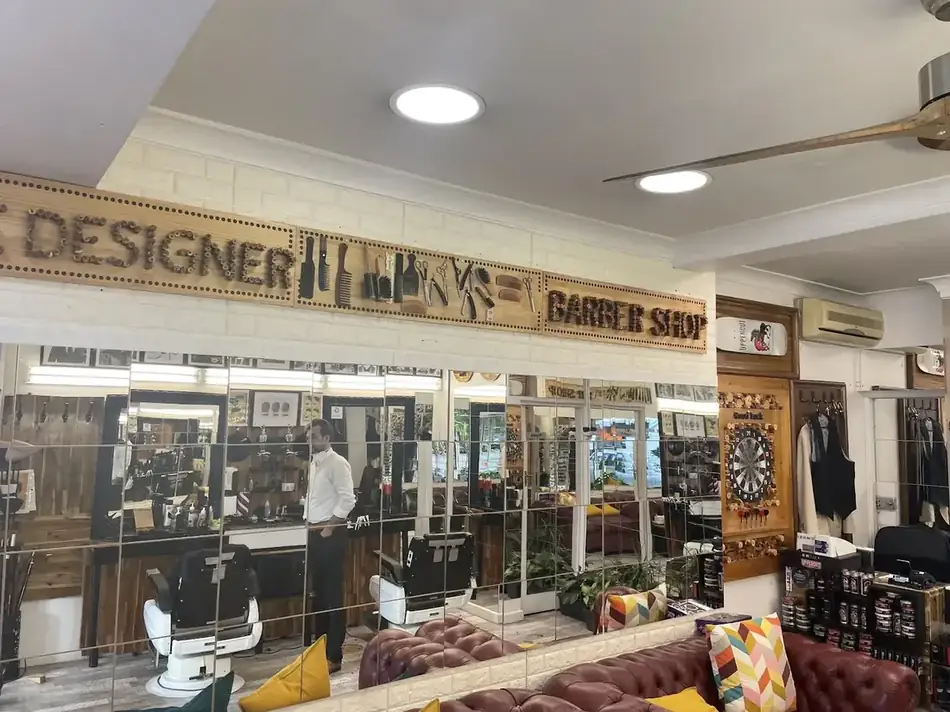
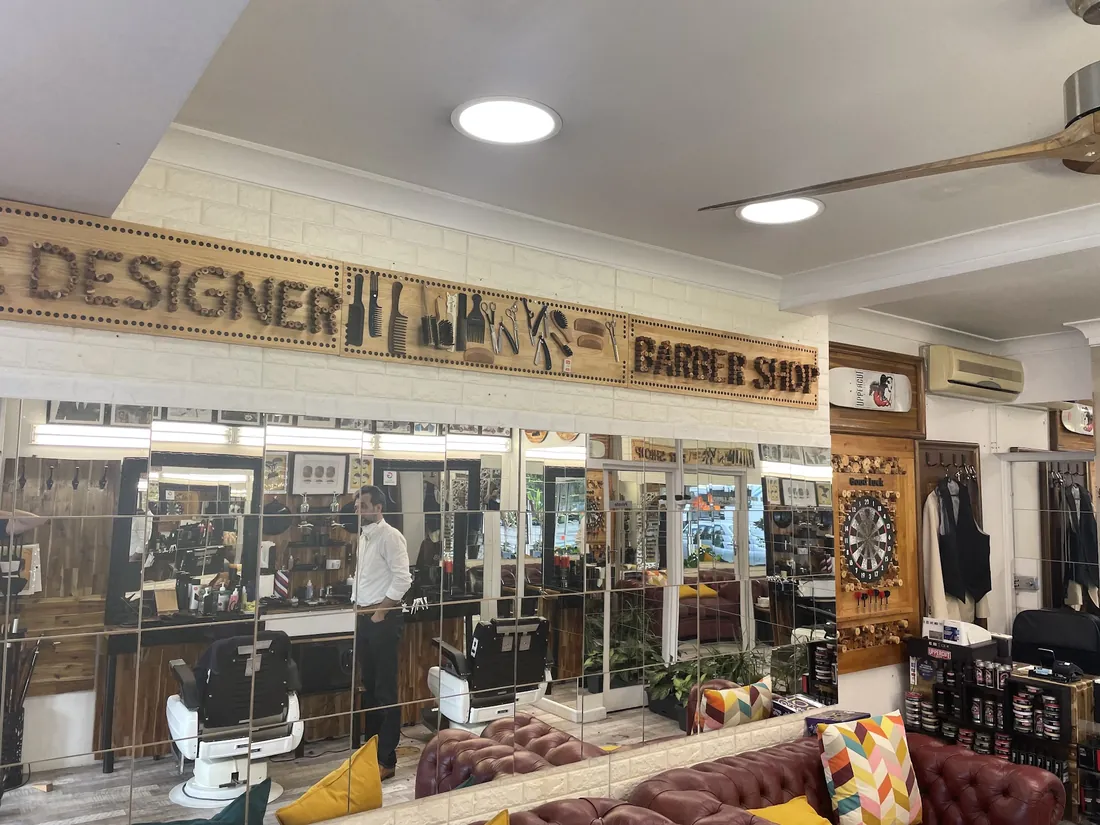
Restore full-quality images from originals

diff --git a/index.html b/index.html
@@ -417,7 +417,7 @@
     </div>
   </div>
   <div class="hero-media">
-    <img src="img/p7.webp" width="1200" height="900" fetchpriority="high" decoding="async" alt="Inside The Designer Barber Shop — vintage chairs, timber fittings and oxblood leather Chesterfields">
+    <img src="img/p7.webp" width="1400" height="1050" fetchpriority="high" decoding="async" alt="Inside The Designer Barber Shop — vintage chairs, timber fittings and oxblood leather Chesterfields">
   </div>
 </header>
 
@@ -432,7 +432,7 @@
 <section id="about">
   <div class="wrap about">
     <div class="about-media rv">
-      <img src="img/p3.webp" width="950" height="712" loading="lazy" decoding="async" alt="The timber sign inside the shop, spelled out in combs, scissors and razors">
+      <img src="img/p3.webp" width="1100" height="825" loading="lazy" decoding="async" alt="The timber sign inside the shop, spelled out in combs, scissors and razors">
       <div class="about-badge"><b>4.9</b><span>From 230 reviews</span></div>
     </div>
     <div class="about-body rv">
@@ -496,11 +496,11 @@
       <p>Timber, leather and proper barber chairs. Free easy parking nearby, and the door is open six days a week.</p>
     </div>
     <div class="gal rv">
-      <figure class="f1"><img src="img/p2.webp" width="950" height="712" loading="lazy" decoding="async" alt="Vintage barber chairs and the product wall"></figure>
-      <figure class="f2"><img src="img/p5.webp" width="700" height="932" loading="lazy" decoding="async" alt="A finished skin fade"></figure>
-      <figure class="f3"><img src="img/p1.webp" width="850" height="637" loading="lazy" decoding="async" alt="The shopfront on Grosvenor Street"></figure>
-      <figure class="f4"><img src="img/p4.webp" width="850" height="637" loading="lazy" decoding="async" alt="The shop window, signwritten in white"></figure>
-      <figure class="f5"><img src="img/p6.webp" width="850" height="637" loading="lazy" decoding="async" alt="The waiting area — two oxblood leather Chesterfields and Alan's hand-made hours board"></figure>
+      <figure class="f1"><img src="img/p2.webp" width="1100" height="825" loading="lazy" decoding="async" alt="Vintage barber chairs and the product wall"></figure>
+      <figure class="f2"><img src="img/p5.webp" width="800" height="1066" loading="lazy" decoding="async" alt="A finished skin fade"></figure>
+      <figure class="f3"><img src="img/p1.webp" width="1000" height="750" loading="lazy" decoding="async" alt="The shopfront on Grosvenor Street"></figure>
+      <figure class="f4"><img src="img/p4.webp" width="1000" height="750" loading="lazy" decoding="async" alt="The shop window, signwritten in white"></figure>
+      <figure class="f5"><img src="img/p6.webp" width="1000" height="750" loading="lazy" decoding="async" alt="The waiting area — two oxblood leather Chesterfields and Alan's hand-made hours board"></figure>
     </div>
   </div>
 </section>
@@ -556,7 +556,7 @@
           <a class="tel alt" href="tel:0299045948">02 9904 5948</a>
           <p class="tel-note">Walk-ins welcome. Ring ahead if you're short on time.</p>
         </div>
-        <div class="shopfront"><img src="img/p8.webp" width="800" height="600" loading="lazy" decoding="async" alt="The entrance to The Designer Barber Shop, off the Grosvenor Street arcade"></div>
+        <div class="shopfront"><img src="img/p8.webp" width="900" height="675" loading="lazy" decoding="async" alt="The entrance to The Designer Barber Shop, off the Grosvenor Street arcade"></div>
       </div>
       <div class="rv">
         <span class="eyebrow">Opening Hours</span>
